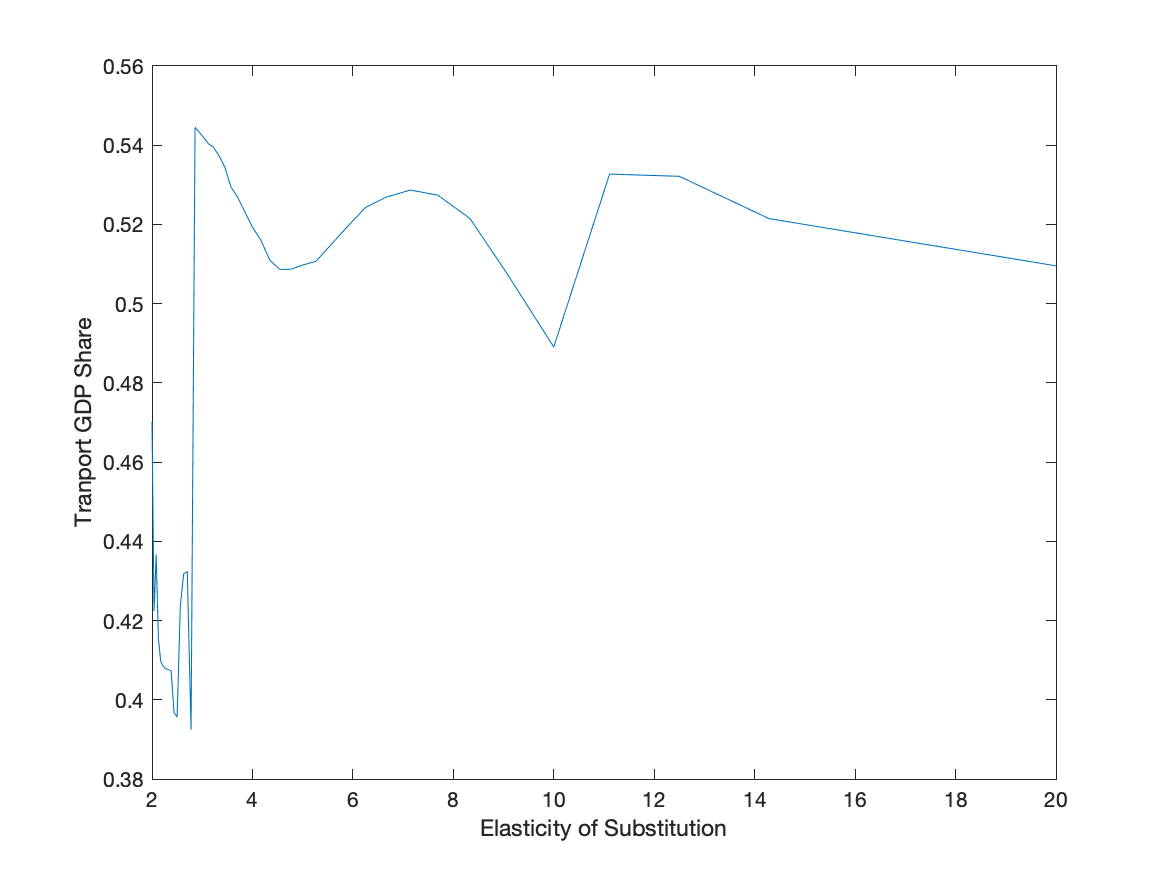
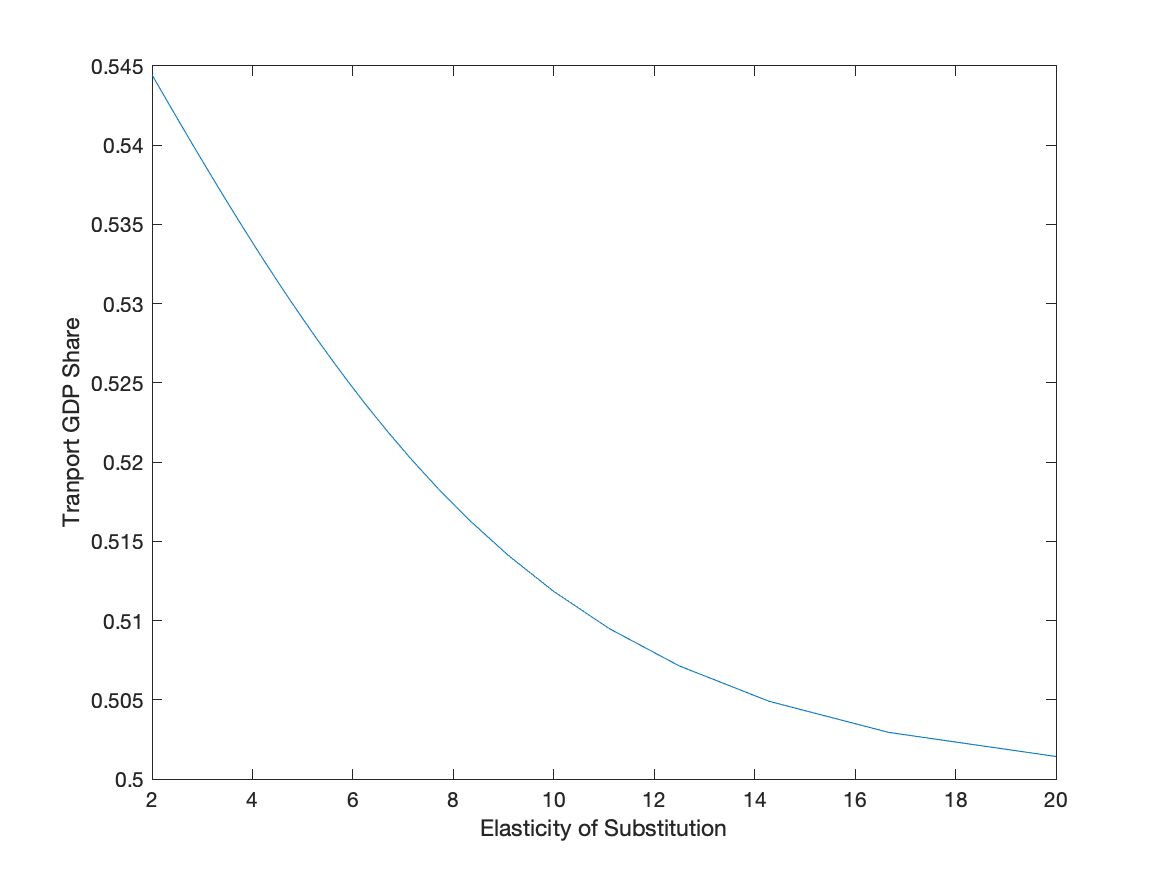
Adding new version of model that allows for varying capital return 'r' during comparative statics exercises. Alos addding new figures resulting from this method.

diff --git a/Capital/comp_stat_k_productivity.m b/Capital/comp_stat_k_productivity.m
@@ -22,30 +22,49 @@ alpha_t=0.5;
 
 %%%%%%%%  Commodity Productivity  %%%%%%%%
 %%%%  Symmetric case %%%%
-prodspace = 0.1:0.1:10;
-sol_com_sym = zeros(length(prodspace),32);
+rspace=0.65:0.01:10;
+f=zeros(1,1);
+sol=zeros(1,29);
+
+prodspace = 0.1:0.1:2.5;
+sol_com_sym = zeros(length(prodspace),29);
+solutions_com_sym=zeros(length(prodspace),29);
 flags = zeros(length(prodspace),1);
 
 for n=1:length(prodspace)
     a(1)=prodspace(n);
     a(2)=prodspace(n);
-    x0=ones(1,32);
-    fun = @(x) model_k(x, gamma, delta, beta, alpha, alpha_t, a, d, t);
-    [x,~,flag]=fsolve(fun,x0);
-    sol_com_sym(n,:)=real(x);
+    for i=1:length(rspace)
+        r=rspace(i);
+        fun = @(x) model_k_r(x, gamma, alpha, alpha_t, delta, beta, a, d, t, r);
+        x0 = ones(1,28);
+        options=optimoptions('fsolve','Algorithm','levenberg-marquardt');
+        [x,~,flag] = fsolve(fun,x0,options);
+        f=((x(25)+r*x(27))/x(19))-((x(26)+r*x(28))/x(20));
+        if abs(f)<1e-5 && abs(imag(x(25)))<1e-9
+            break 
+        end 
+    end 
     flags(n)=flag;
+    sol(1:18)=real(x(1:18));
+    sol(27:28)=real(x(27:28));
+    sol(19:26)=real(x(19:26))/real(x(25));
+    sol(29)=r/real(x(25));
+    sol_com_sym(n,:)=sol;
+    solutions_com_sym(n,1:28)=x;
+    solutions_com_sym(n,29)=r;
 end 
 
 welfare = zeros(length(prodspace),1);
 transport_gdp_share = zeros(length(prodspace),1);
 
 for n=1:length(prodspace)
-    welfare(n) = (1+sol_com_sym(n,28)*sol_com_sym(n,31))/sol_com_sym(n,21);
+    welfare(n) = (sol_com_sym(n,25)+sol_com_sym(n,29)*sol_com_sym(n,27))/sol_com_sym(n,19);
 end 
 
 for n=1:length(prodspace)
     x=sol_com_sym(n,25)*sol_com_sym(n,9)+sol_com_sym(n,26)*sol_com_sym(n,10);
-    y=sol_com_sym(n,21)*sol_com_sym(n,1)+sol_com_sym(n,22)*sol_com_sym(n,2);
+    y=sol_com_sym(n,19)*sol_com_sym(n,1)+sol_com_sym(n,20)*sol_com_sym(n,2);
     transport_gdp_share(n)=x/y;
 end 
 
@@ -71,7 +90,8 @@ xlabel('Commodity Productivity')
 ylabel('Tranport GDP Share');
 
 %%%%  Asymmetric case %%%%
-sol_com_asym = zeros(length(prodspace),32);
+sol_com_asym = zeros(length(prodspace),29);
+solutions_com_asym=zeros(length(prodspace),29);
 flags = zeros(length(prodspace),1);
 
 a = zeros(3,1);
@@ -81,23 +101,37 @@ a(3) = 1; %productivity of transport sector
 
 for n=1:length(prodspace)
     a(1)=prodspace(n);
-    x0=ones(1,32);
-    fun = @(x) model_k(x, gamma, delta, beta, alpha, alpha_t, a, d, t);
-    [x,~,flag]=fsolve(fun,x0);
-    sol_com_asym(n,:)=real(x);
+    for i=1:length(rspace)
+        r=rspace(i);
+        fun = @(x) model_k_r(x, gamma, alpha, alpha_t, delta, beta, a, d, t, r);
+        x0 = ones(1,28);
+        options=optimoptions('fsolve','Algorithm','levenberg-marquardt');
+        [x,~,flag] = fsolve(fun,x0,options);
+        f=((x(25)+r*x(27))/x(19))-((x(26)+r*x(28))/x(20));
+        if abs(f)<1e-5 && abs(imag(x(25)))<1e-9
+            break 
+        end 
+    end 
     flags(n)=flag;
+    sol(1:18)=real(x(1:18));
+    sol(27:28)=real(x(27:28));
+    sol(19:26)=real(x(19:26))/real(x(25));
+    sol(29)=r/real(x(25));
+    solutions_com_asym(n,1:28)=x;
+    solutions_com_asym(n,29)=r;
+    sol_com_asym(n,:)=sol;
 end 
 
 welfare = zeros(length(prodspace),1);
 transport_gdp_share = zeros(length(prodspace),1);
 
 for n=1:length(prodspace)
-    welfare(n) = (1+sol_com_asym(n,28)*sol_com_asym(n,31))/sol_com_asym(n,21);
+    welfare(n) = (sol_com_asym(n,25)+sol_com_asym(n,29)*sol_com_asym(n,27))/sol_com_asym(n,19);
 end 
 
 for n=1:length(prodspace)
     x=sol_com_asym(n,25)*sol_com_asym(n,9)+sol_com_asym(n,26)*sol_com_asym(n,10);
-    y=sol_com_asym(n,21)*sol_com_asym(n,1)+sol_com_asym(n,22)*sol_com_asym(n,2);
+    y=sol_com_asym(n,19)*sol_com_asym(n,1)+sol_com_asym(n,20)*sol_com_asym(n,2);
     transport_gdp_share(n)=x/y;
 end 
 
@@ -123,7 +157,8 @@ xlabel('Region 1 Commodity Productivity')
 ylabel('Tranport GDP Share');
 
 %%%%%%%%  Transport Productivity  %%%%%%%%
-sol_transport = zeros(length(prodspace),32);
+sol_transport = zeros(length(prodspace),29);
+solutions_transport = zeros(length(prodspace),29);
 flags = zeros(length(prodspace),1);
 
 a = zeros(3,1);
@@ -133,23 +168,37 @@ a(3) = 1; %productivity of transport sector
 
 for n=1:length(prodspace)
     a(3)=prodspace(n);
-    x0=ones(1,32)/2;
-    fun = @(x) model_k(x, gamma, delta, beta, alpha, alpha_t, a, d, t);
-    [x,~,flag]=fsolve(fun,x0);
-    sol_transport(n,:)=real(x);
+    for i=1:length(rspace)
+        r=rspace(i);
+        fun = @(x) model_k_r(x, gamma, alpha, alpha_t, delta, beta, a, d, t, r);
+        x0 = ones(1,28);
+        options=optimoptions('fsolve','Algorithm','levenberg-marquardt');
+        [x,~,flag] = fsolve(fun,x0,options);
+        f=((x(25)+r*x(27))/x(19))-((x(26)+r*x(28))/x(20));
+        if abs(f)<1e-5 && abs(imag(x(25)))<1e-9
+            break 
+        end 
+    end 
     flags(n)=flag;
+    sol(1:18)=real(x(1:18));
+    sol(27:28)=real(x(27:28));
+    sol(19:26)=real(x(19:26))/real(x(25));
+    sol(29)=r/real(x(25));
+    solutions(n,1:28)=x;
+    solutions(n,29)=r;
+    sol_transport(n,:)=sol;
 end 
 
 welfare = zeros(length(prodspace),1);
 transport_gdp_share = zeros(length(prodspace),1);
 
 for n=1:length(prodspace)
-    welfare(n) = (1+sol_transport(n,28)*sol_transport(n,31))/sol_transport(n,21);
+    welfare(n) = (sol_transport(n,25)+sol_transport(n,29)*sol_transport(n,27))/sol_transport(n,19);
 end 
 
 for n=1:length(prodspace)
     x=sol_transport(n,25)*sol_transport(n,9)+sol_transport(n,26)*sol_transport(n,10);
-    y=sol_transport(n,21)*sol_transport(n,1)+sol_transport(n,22)*sol_transport(n,2);
+    y=sol_transport(n,19)*sol_transport(n,1)+sol_transport(n,20)*sol_transport(n,2);
     transport_gdp_share(n)=x/y;
 end 
 
@@ -179,3 +228,5 @@ for n=1:12
     figname = num2str(get(figure(n),'Number'));
     saveas(figure(n),fullfile('/Users/johnwilhoite/Documents/MATLAB/Transport/Capital/capital_figures/capital_productivity',strcat(figname,'.png')))
 end 
+
+

diff --git a/Capital/comp_stat_k_transport.m b/Capital/comp_stat_k_transport.m
@@ -12,7 +12,7 @@ d(1) = 1; %d_11, region 1 to 2 required transport services
 d(2) = 1.5; %d__12, region 1 to 2 required transport services
 d(3) = 1; %d_22
 d(4) = 1.5; %d_21
-t = 1;
+t = 0.1;
 
 gamma = 0.75; 
 beta = 0.99;
@@ -21,29 +21,48 @@ alpha=0.5;
 alpha_t=0.5;
 
 %%%%%%%%  Transport Costs  %%%%%%%%
+rspace=0.65:0.01:100;
+f=zeros(1,1);
+sol=zeros(1,29);
+
 tspace = 0:0.01:3;
-sol_transport = zeros(length(tspace),32);
+sol_transport = zeros(length(tspace),29);
 flags = zeros(length(tspace),1);
+solutions=zeros(length(tspace),29);
 
 for n=1:length(tspace)
     t=tspace(n);
-    fun = @(x) model_k(x, gamma, alpha, alpha_t, delta, beta, a, d, t);
-    x0 = ones(1,32);
-    [x,~,flag] = fsolve(fun,x0);
+    for i=1:length(rspace)
+        r=rspace(i);
+        fun = @(x) model_k_r(x, gamma, alpha, alpha_t, delta, beta, a, d, t, r);
+        x0 = ones(1,28);
+        options=optimoptions('fsolve','Algorithm','levenberg-marquardt');
+        [x,~,flag] = fsolve(fun,x0,options);
+        f=((x(25)+r*x(27))/x(19))-((x(26)+r*x(28))/x(20));
+        if abs(f)<1e-5 && isreal(x)==1
+            break 
+        end 
+    end 
     flags(n)=flag;
-    sol_transport(n,:)=x;
+    sol(1:18)=x(1:18);
+    sol(27:28)=x(27:28);
+    sol(19:26)=x(19:26)/x(25);
+    sol(29)=r/x(25);
+    sol_transport(n,:)=sol;
+    solutions(n,1:28)=x;
+    solutions(n,29)=r;
 end 
 
-welfare1 = zeros(length(tspace),1);
+welfare = zeros(length(tspace),1);
 transport_gdp_share = zeros(length(tspace),1);
 
 for n=1:length(tspace)
-    welfare(n) = (1+sol_transport(n,28)*sol_transport(n,31))/sol_transport(n,21);
+    welfare(n) = (sol_transport(n,25)+sol_transport(n,29)*sol_transport(n,27))/sol_transport(n,19);
 end  
 
 for n=1:length(tspace)
-    x=sol_transport(n,25)*sol_transport(n,9)+sol_transport(n,26)*sol_transport(n,10);
-    y=sol_transport(n,21)*sol_transport(n,1)+sol_transport(n,22)*sol_transport(n,2);
+    x=sol_transport(n,23)*sol_transport(n,9)+sol_transport(n,24)*sol_transport(n,10);
+    y=sol_transport(n,19)*sol_transport(n,1)+sol_transport(n,20)*sol_transport(n,2);
     transport_gdp_share(n)=x/y;
 end 
 
@@ -76,23 +95,38 @@ ylabel('Tranport GDP Share');
 
 %%%%%%%%  Elasaticity of Substitution  %%%%%%%%
 gammaspace = 0.5:0.01:0.95;
-sol_substitution = zeros(length(gammaspace),32);
+sol=zeros(1,29);
+sol_substitution = zeros(length(gammaspace),29);
+solutions_sub=zeros(length(gammaspace),29);
 flags = zeros(length(gammaspace),1);
 
 t=1;
 
 for n=1:length(gammaspace)
     gamma=gammaspace(n);
-    fun = @(x) model_k(x, gamma, alpha, alpha_t, delta, beta, a, d, t);
-    x0 = ones(1,32)/2;
-    [x,~,flag] = fsolve(fun,x0);
+    for i=1:length(rspace)
+        r=rspace(i);
+        fun = @(x) model_k_r(x, gamma, alpha, alpha_t, delta, beta, a, d, t, r);
+        x0 = ones(1,28);
+        options=optimoptions('fsolve','Algorithm','levenberg-marquardt');
+        [x,~,flag] = fsolve(fun,x0,options);
+        f=((x(25)+r*x(27))/x(19))-((x(26)+r*x(28))/x(20));
+        if abs(f)<1e-5 && isreal(x)==1
+            break 
+        end 
+    end 
     flags(n)=flag;
-    sol_substitution(n,:)=x;
+    sol(1:18)=x(1:18);
+    sol(27:28)=x(27:28);
+    sol(19:26)=x(19:26)/x(25);
+    sol(29)=r/x(25);
+    solutions_sub(n,1:28)=x;
+    solutions_sub (n,29)=r;
+    sol_substitution(n,:)=sol;
 end 
 
 elasticity = zeros(length(gammaspace),1);
-welfare1 = zeros(length(gammaspace),1);
-welfare2 = zeros(length(gammaspace),1);
+welfare = zeros(length(gammaspace),1);
 transport_gdp_share = zeros(length(gammaspace),1);
 
 for n=1:length(gammaspace)
@@ -101,17 +135,17 @@ for n=1:length(gammaspace)
 end 
 
 for n=1:length(gammaspace)
-    welfare1(n) = (1+sol_substitution(n,28)*sol_substitution(n,31))/sol_substitution(n,21);
+    welfare(n) = (sol_substitution(n,25)+sol_substitution(n,29)*sol_substitution(n,27))/sol_substitution(n,19);
 end 
 
 for n=1:length(gammaspace)
-    x=sol_substitution(n,25)*sol_substitution(n,9)+sol_substitution(n,26)*sol_substitution(n,10);
-    y=sol_substitution(n,21)*sol_substitution(n,1)+sol_substitution(n,22)*sol_substitution(n,2);
+    x=sol_substitution(n,23)*sol_substitution(n,9)+sol_substitution(n,24)*sol_substitution(n,10);
+    y=sol_substitution(n,19)*sol_substitution(n,1)+sol_substitution(n,20)*sol_substitution(n,2);
     transport_gdp_share(n)=x/y;
 end 
 
 figure
-plot(elasticity,welfare1)
+plot(elasticity,welfare)
 xlabel('Elasticity of Substitution')
 ylabel('Welfare');
 
@@ -148,4 +182,6 @@ for n=6:10
     figname = num2str(get(figure(n),'Number'));
     saveas(figure(n),fullfile('/Users/johnwilhoite/Documents/MATLAB/Transport/Capital/capital_figures/capital_elasticity',strcat(figname,'.png')))
 end 
+
+
 

diff --git a/Capital/model_k_r.m b/Capital/model_k_r.m
@@ -1,0 +1,77 @@
+function F = model_k_r(x, gamma, alpha, alpha_t, delta, beta, a, d, t, r)
+
+%x(1)=Q_tilde1
+%x(2)=Q_tilde2
+%x(3)=Q_1
+%x(4)=Q_2
+%x(5)=z_11
+%x(6)=z_12
+%x(7)=z_22
+%x(8)=z_21
+%x(9)=T_1
+%x(10)=T_2
+
+%x(11)=L_1
+%x(12)=L_2
+%x(13)=L_T1
+%x(14)=L_t2
+
+%x(15)=K_1
+%x(16)=K_2
+%x(17)=K_T1
+%x(18)=K_T2
+
+%x(19)=p_tilde1
+%x(20)=p_tilde2
+%x(21)=p_1
+%x(22)=p_2
+%x(23)=p_T1
+%x(24)=p_T2
+%x(25)=w_1
+%x(26)=w_2
+
+%x(27)=k_1
+%x(28)=k_2
+
+%Technology
+F(1)=((0.5^(1-gamma))*(x(5)^gamma)+(0.5^(1-gamma))*(x(8)^gamma))^(1/gamma)-x(1); %Q_tilde1 production function
+F(2)=((0.5^(1-gamma))*(x(7)^gamma)+(0.5^(1-gamma))*(x(6)^gamma))^(1/gamma)-x(2); %Q_tilde2 production function
+F(3)=a(1)*(x(11)^(1-alpha))*(x(15)^alpha)-x(3); %Q_1 production function
+F(4)=a(2)*(x(12)^(1-alpha))*(x(16)^alpha)-x(4); %Q_2 production function
+F(5)=a(3)*(x(13)^(1-alpha_t))*(x(17)^alpha_t)-x(9); %T_1 production function
+F(6)=a(3)*(x(14)^(1-alpha_t))*(x(18)^alpha_t)-x(10); %T_2 production function
+
+%Producer Optimization
+F(7)=(1-alpha)*x(21)*a(1)*((x(15)/x(11))^alpha)-x(25); %w_1 from Q_1
+F(8)=(alpha)*x(21)*a(1)*((x(11)/x(15))^(1-alpha))-r; %r from Q_1
+F(9)=(1-alpha)*x(22)*a(2)*((x(16)/x(12))^alpha)-x(26); %w_2 from Q_2
+F(10)=(alpha)*x(22)*a(2)*((x(12)/x(16))^(1-alpha))-r; %r from Q_2
+
+F(11)=(1-alpha_t)*x(23)*a(3)*((x(17)/x(13))^alpha_t)-x(25); %w_1 from T_1
+F(12)=(alpha_t)*x(23)*a(3)*((x(13)/x(17))^(1-alpha_t))-r;%r from T_1
+F(13)=(1-alpha_t)*x(24)*a(3)*((x(18)/x(14))^alpha_t)-x(26); %w_2 from T_2
+F(14)=(alpha_t)*x(24)*a(3)*((x(14)/x(18))^(1-alpha_t))-r; %r rom T_2
+
+F(15)=0.5*x(1)*(x(19)/(x(21)+d(1)*t*x(23)))^(1/(1-gamma))-x(5); %optimal demand for Z_11
+F(16)=0.5*x(1)*(x(19)/(x(22)+d(4)*t*x(24)))^(1/(1-gamma))-x(8); %optimal demand for Z_21
+F(17)=0.5*x(2)*(x(20)/(x(22)+d(3)*t*x(24)))^(1/(1-gamma))-x(7); %optimal demand for Z_22
+F(18)=0.5*x(2)*(x(20)/(x(21)+d(2)*t*x(23)))^(1/(1-gamma))-x(6); %optimal demand for Z_12
+
+%Consumer Optimization
+F(19)=x(25)*(x(11)+x(13))+r*x(27)*(x(11)+x(13))-x(19)*x(1); %Region 1 aggregate budget constraint
+F(20)=x(26)*(x(12)+x(14))+r*x(28)*(x(12)+x(14))-x(20)*x(2); %Region 2 aggregate budget constraint
+F(21)=beta*(x(19)*(1-delta)+r)-x(19); %Region 1 Euler equation
+F(22)=beta*(x(20)*(1-delta)+r)-x(20); %Region 2 Euler equation
+
+%Market Clearing Conditions
+F(23)=x(5)+x(6)-x(3); %Q_1 market clearing condition
+F(24)=x(7)+x(8)-x(4); %Q_2 market clearing condition
+F(25)=(x(5)*d(1)*t)+(x(6)*d(2)*t)-x(9); %T_1 market clearing condition 
+F(26)=(x(7)*d(3)*t)+(x(8)*d(4)*t)-x(10); %T_2 market clearing condition
+F(27)=x(11)+x(12)+x(13)+x(14)-1; %Labor market clearing condition
+F(28)=x(15)+x(16)+x(17)+x(18)-x(27)*(x(11)+x(13))-x(28)*(x(12)+x(14));%Capital market clearing condition 
+
+F(29)=((x(25)+r*x(27))/x(19))-((x(26)+r*x(28))/x(20));
+
+end 
+
